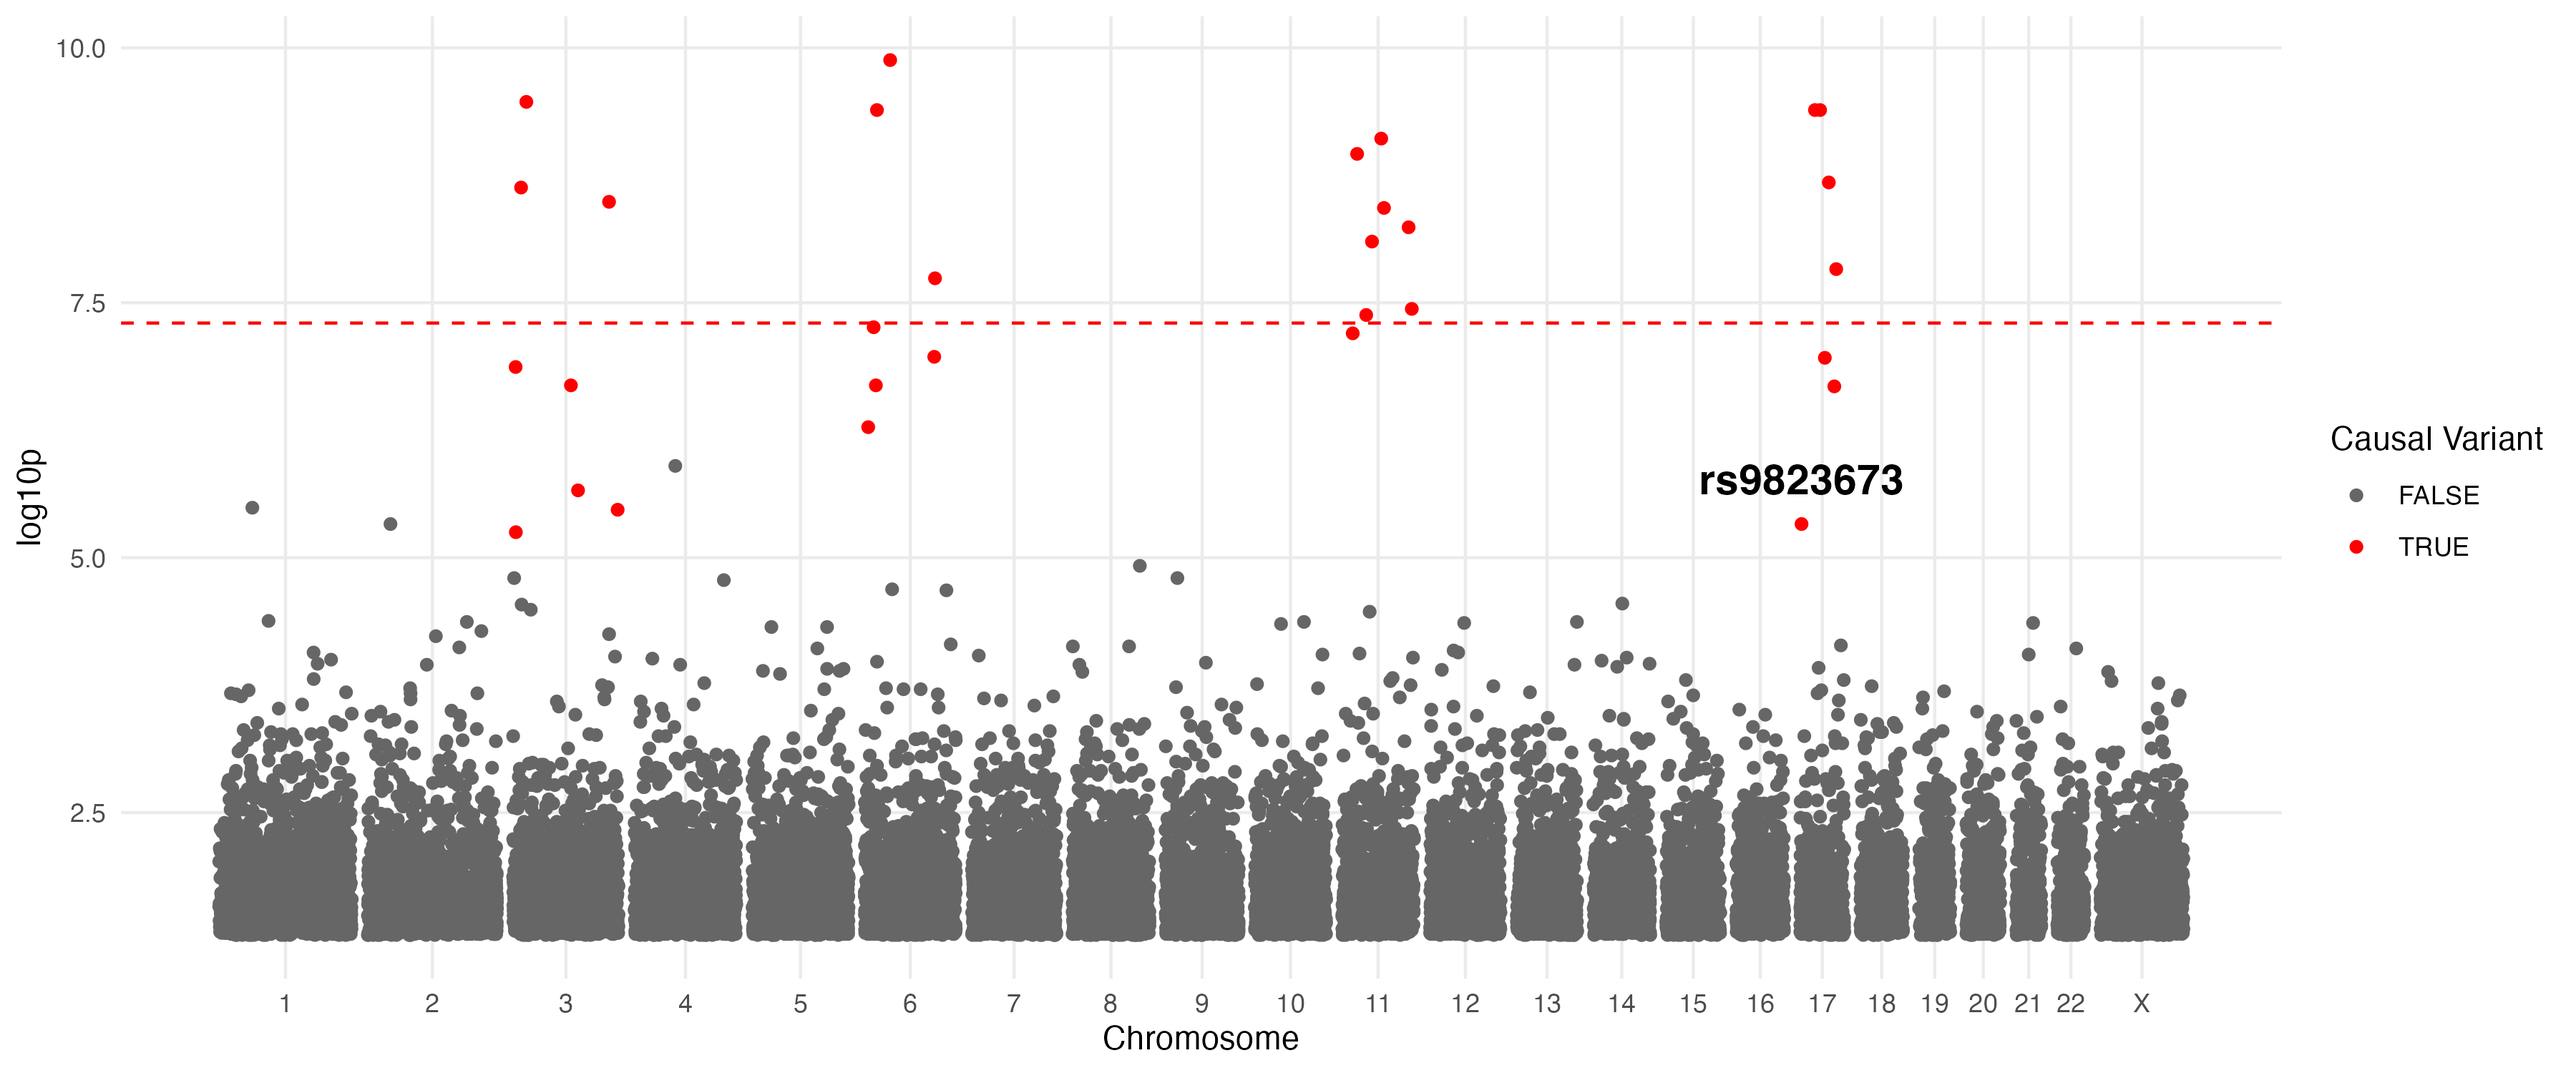
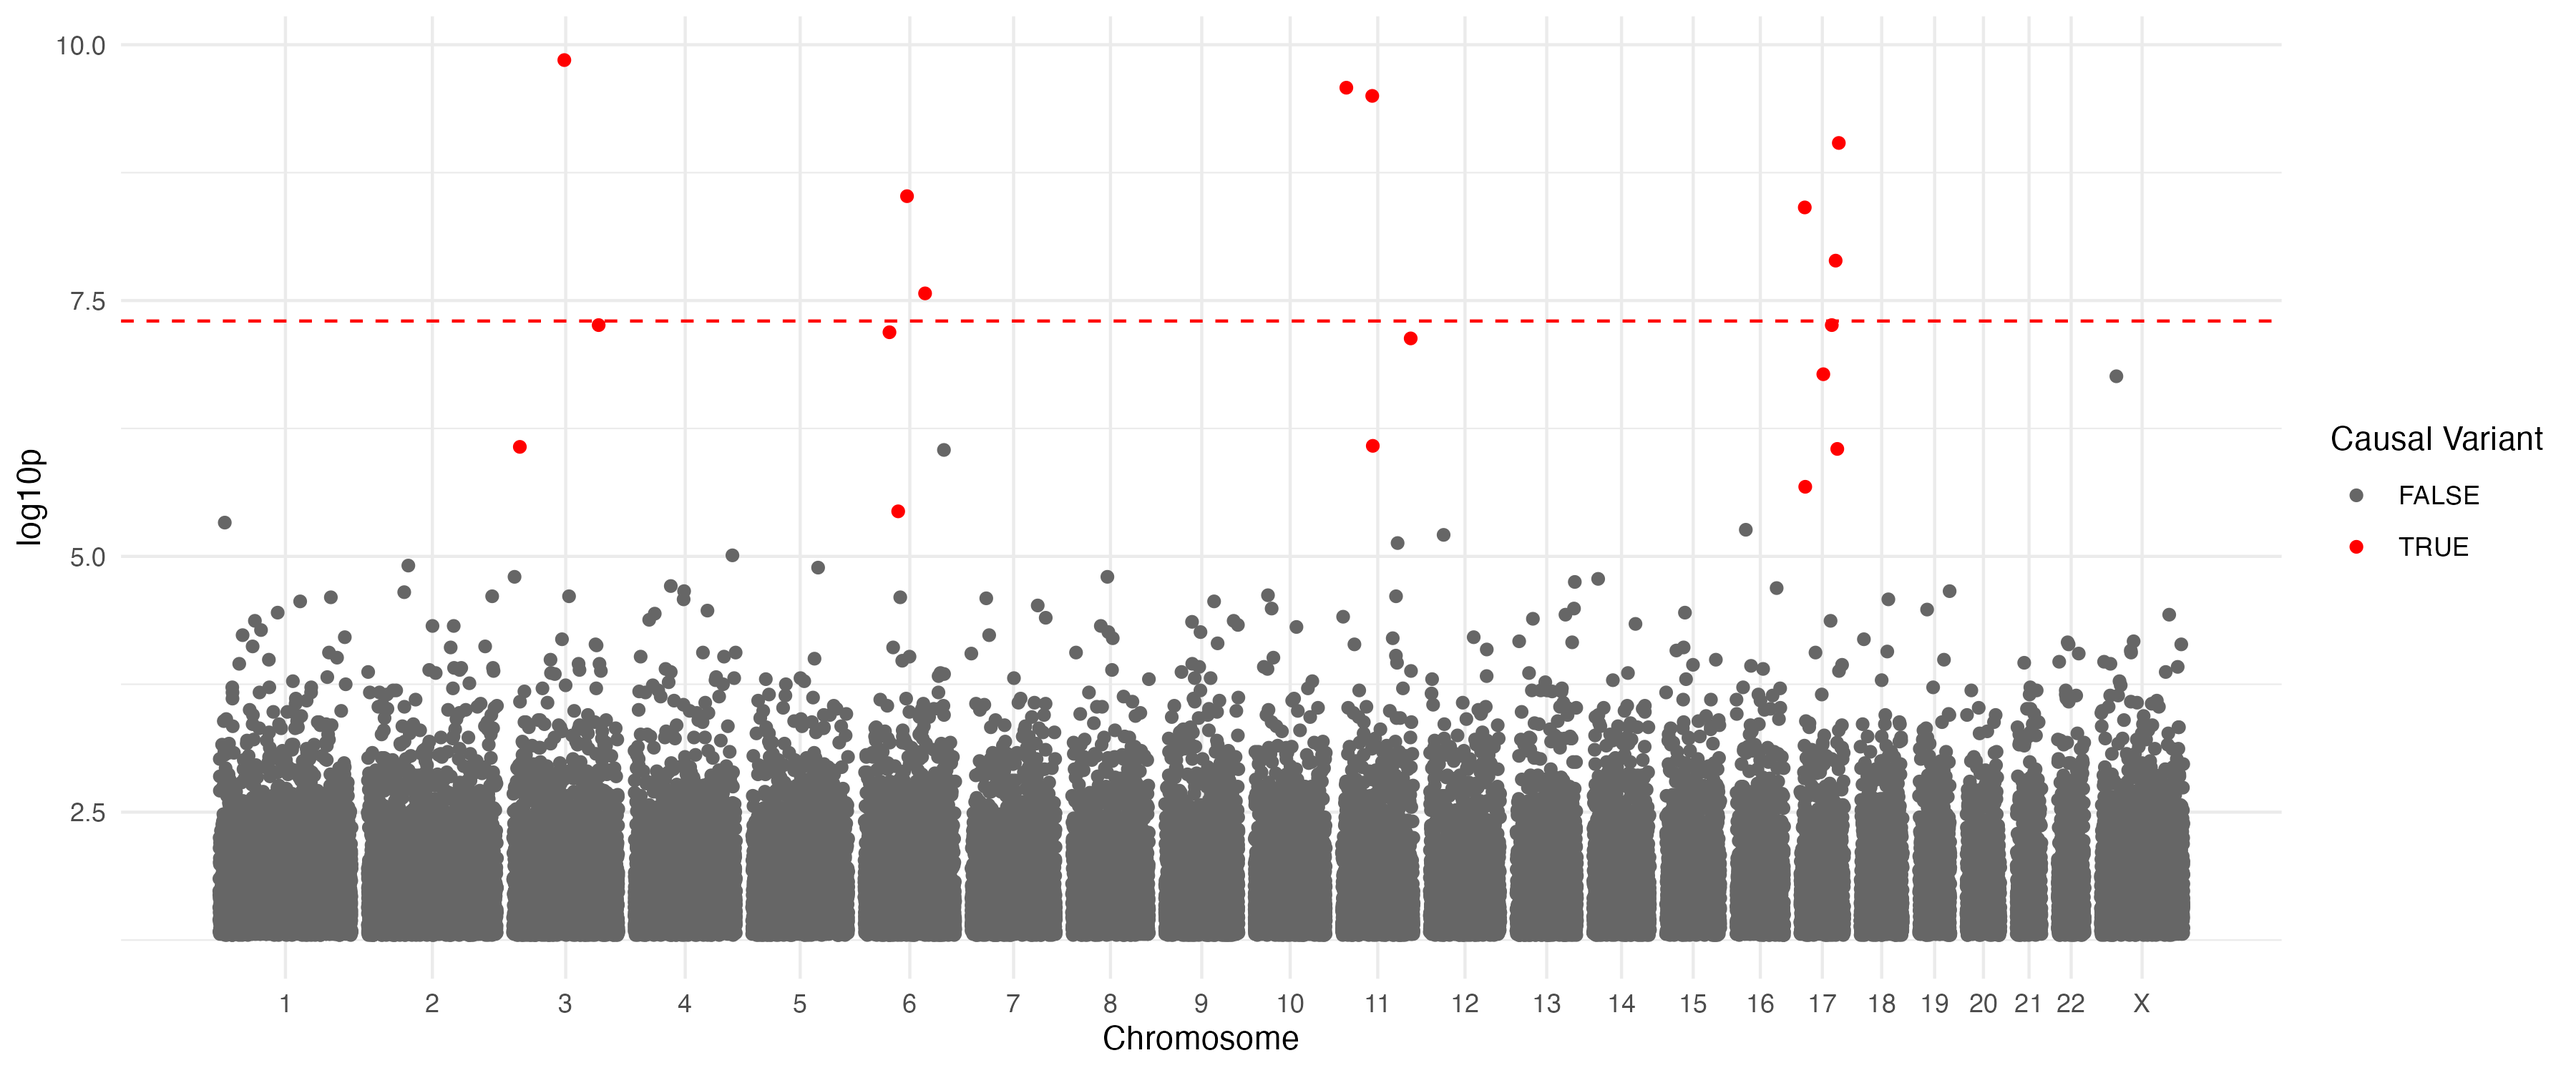
simplify readme + a bit more exposition

diff --git a/README.md b/README.md
@@ -4,13 +4,15 @@
 [![R-CMD-check](https://github.com/daniel-wells/coord_serial/actions/workflows/R-CMD-check.yaml/badge.svg)](https://github.com/daniel-wells/coord_serial/actions/workflows/R-CMD-check.yaml)
 <!-- badges: end -->
 
-This is an R package - an extension of the `ggplot2` package - for plotting data along a continuous axis composed of multiple discrete domains (like chromosomes in a manhattan plot), in a grammar of graphics approach:
+This is an R package - an extension of the `ggplot2` package - for plotting data along a continuous axis composed of multiple discrete domains (e.g. chromosomes in a Manhattan plot), using a grammar of graphics approach.
+
+Most current approaches require either manual pre-calculation of the new axis, or use a wrapper function which limits the customisability of the ggplot framework.
+
+The idiomatic `ggplot2` approach is to provide a new coordinate system, `coord_serial()`, that can be used with `ggplot2` to plot data along a single axis.
+
+The benefits of this approach are:
 - no bespoke data pre-processing
-- full customisation using the `ggplot2` framework
-
-This is achieved by providing a new coordinate system, `coord_serial()`, that can be used with `ggplot2` to plot data along a single axis.
-
-
+- full interoperability with other `ggplot2` components
 
 ## Example
 
@@ -21,25 +23,23 @@ library(coord.serial)
 library(ggplot2)
 
 # genetics-specific example data
-simulated_gwas <- simulate_gwas()
-
-# Create a label for a specific hit
-target_hit <- simulated_gwas[simulated_gwas$chrom == "17" & simulated_gwas$causal, ][1, ]
-target_hit$label <- "rs9823673"
+simulated_gwas <- simulate_gwas(p_max=0.05)
 
 # plot using the generalized coord_serial()
 p <- ggplot(simulated_gwas, aes(x = position,
                                 y = log10p,
                                 domain = chrom,
-                                color = causal)) +
+                                colour = causal)) +
     geom_point() +
-    geom_text(data = target_hit, aes(label = label), vjust = -1, size = 5, color = "black") +
-    geom_hline(yintercept = 7.3, linetype = "dashed", color = "red") +
     coord_serial()
 
+# extra formatting
 p + scale_color_manual(values = c("TRUE" = "red", "FALSE" = "grey40")) +
     theme_minimal() +
-    labs(x = "Chromosome", color = "Causal Variant")
+    labs(x = "Chromosome", color = "Causal Variant") +
+    geom_hline(yintercept = 7.3, linetype = "dashed", color = "red")
+
+ggsave('man/figures/manhattan.png', width = 12, height = 5)
 ```
 
 ![Manhattan Plot](man/figures/manhattan.png)

diff --git a/facet_comparison.md b/facet_comparison.md
@@ -15,7 +15,7 @@ target_hit$label <- "rs9823673"
 
 ggplot(simulated_gwas, aes(x = position, y = log10p)) +
     geom_point(aes(color = causal)) +
-    geom_text(data = target_hit, aes(label = label), vjust = -1, size = 5) +
+    geom_text(data = target_hit, aes(label = label), vjust = -1) +
     geom_hline(yintercept = -log10(5e-8), color = "red", linetype = "dashed") +
     facet_grid(. ~ chrom, scales = "free_x", space = "free_x", switch = "x") +
     coord_cartesian(clip = "off") + # Attempt to prevent label clipping
@@ -34,13 +34,13 @@ ggplot(simulated_gwas, aes(x = position, y = log10p)) +
 ```r
 p <- ggplot(simulated_gwas, aes(x = position, y = log10p, domain = chrom, color = causal)) +
     geom_point() +
-    geom_text(data = target_hit, aes(label = label), vjust = -1, size = 5) +
+    geom_text(data = target_hit, aes(label = label), vjust = -1) +
     geom_hline(yintercept = -log10(5e-8), color = "red", linetype = "dashed") +
     coord_serial() +
     theme_minimal()
 ```
 
-![Manhattan coord_serial](man/figures/manhattan.png)
+![Manhattan coord_serial](man/figures/manhattan_label.png)
 
 ## Key Advantages of `coord_serial()`
 
